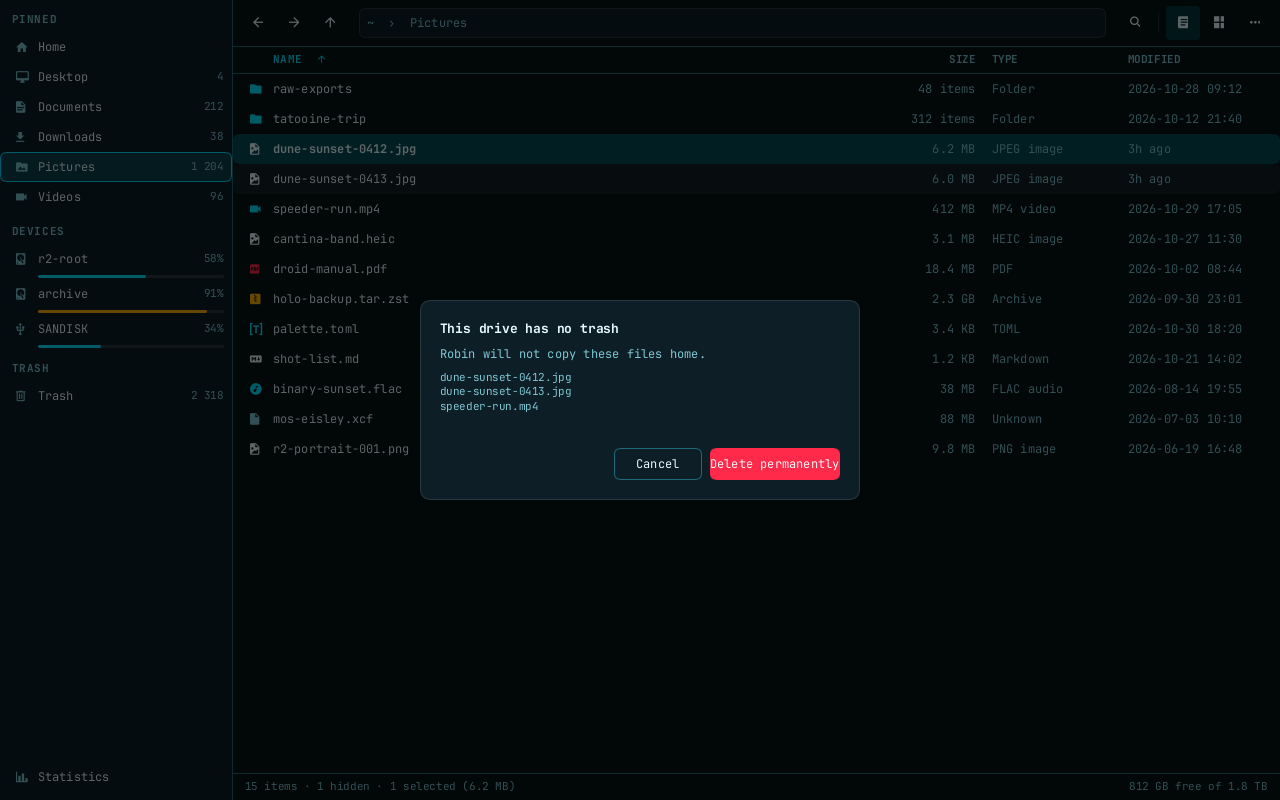
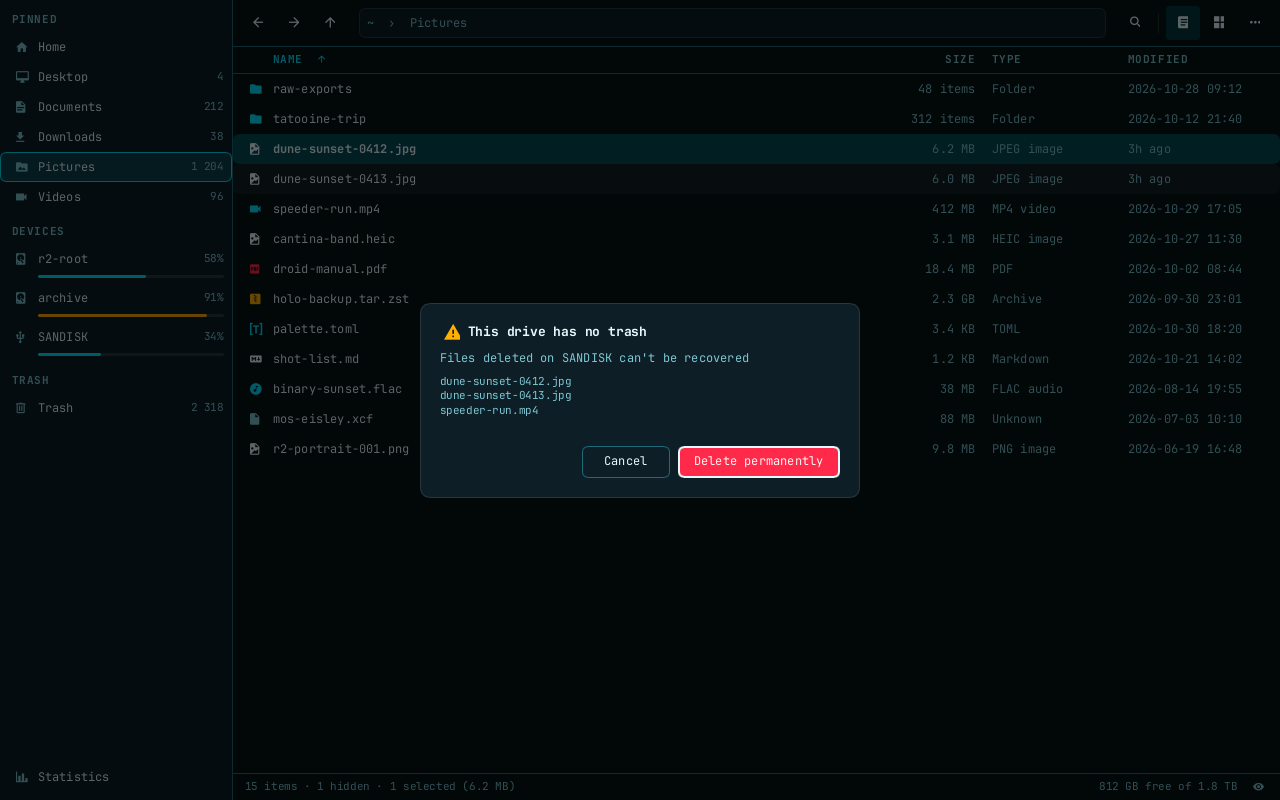
fix(ui): say deleted files on a drive can't be recovered (#43)

diff --git a/src/app.rs b/src/app.rs
@@ -6270,11 +6270,11 @@ fn make_folder_async(ui: &AppWindow, st: &Shared, dir: PathBuf) {
     );
 }
 
-/// The no-trash confirm's note. On a phone or camera it names the device
-/// and says what deleting there means; a drive keeps #41's note.
+/// The no-trash confirm's note. It names the volume and says deleted
+/// files can't be recovered.
 pub fn trash_no_note(ctl: &Controller) -> String {
     match crate::devices::device_of(&ctl.devices, &ctl.dir) {
-        Some(d) if d.media() => format!("Files deleted on {} can't be recovered", d.name()),
+        Some(d) => format!("Files deleted on {} can't be recovered", d.name()),
         _ if crate::devices::gvfs_media_root(&ctl.dir).is_some() => {
             "Files deleted on this phone can't be recovered".into()
         }
@@ -6282,8 +6282,8 @@ pub fn trash_no_note(ctl: &Controller) -> String {
     }
 }
 
-/// The no-trash confirm's note on a drive.
-pub const TRASH_NO_NOTE: &str = "Robin will not copy these files home.";
+/// The no-trash confirm's note when the volume isn't in the device list.
+pub const TRASH_NO_NOTE: &str = "Files deleted on this drive can't be recovered";
 
 /// The no-trash confirm's title: a phone's, a camera's, or a drive's.
 pub fn trash_no_title(ctl: &Controller) -> &'static str {
@@ -10197,6 +10197,30 @@ mod tests {
         go(&mut c, pics);
         assert_eq!(trash_no_title(&c), "This drive has no trash");
         assert_eq!(trash_no_note(&c), TRASH_NO_NOTE);
+        let _ = fs::remove_dir_all(c.env.home.unwrap());
+    }
+
+    #[test]
+    fn deleting_on_a_drive_says_files_cant_be_recovered() {
+        let mut c = setup("drive-trash");
+        let root = c.env.home.clone().unwrap();
+        let fake = crate::devices::FakeDevices::new();
+        fake.plug(crate::devices::FakeDrive::stick(
+            "sdb1",
+            "SANDISK",
+            29_800_000_000,
+            &root.join("SANDISK"),
+        ));
+        let at = crate::devices::DeviceBackend::mount(fake.as_ref(), "sdb1").unwrap();
+        fs::write(at.join("a.jpg"), b"a").unwrap();
+        c.devices = crate::devices::DeviceBackend::drives(fake.as_ref()).unwrap();
+        go(&mut c, at);
+        c.listing.select_only("a.jpg".into());
+        assert_eq!(trash_no_title(&c), "This drive has no trash");
+        assert_eq!(
+            trash_no_note(&c),
+            "Files deleted on SANDISK can't be recovered"
+        );
         let _ = fs::remove_dir_all(c.env.home.unwrap());
     }
 

diff --git a/src/shots.rs b/src/shots.rs
@@ -1407,6 +1407,9 @@ fn fileops_scene(ui: &AppWindow, view: &str) {
         "phone-safe-unplug" => {
             device_toast(ui, "", "Pixel 8 can be unplugged", "", "");
         }
+        "confirm-trash-no-trash" => {
+            ui.set_trash_no_note("Files deleted on SANDISK can't be recovered".into());
+        }
         "phone-no-trash" => {
             ui.set_trash_no_title("This phone has no trash".into());
             ui.set_trash_no_note("Files deleted on Pixel 8 can't be recovered".into());

diff --git a/docs/DESIGN.md b/docs/DESIGN.md
@@ -109,7 +109,7 @@ Glyph sizes: 14 in rows and the sidebar (FolderSidebar glyph 14 in an 18px box) 
       - **Plugged in:** the row is `muted`, as for an unmounted drive. Arrival shows an info toast "Pixel 8 connected" with [Open], with no size because gvfs gives none. One click mounts the phone through gvfs (`gio mount`) and opens its top folder, which lists its storages ("Internal shared storage", "SD card").
       - **Waiting for access:** a locked phone, or one where "Allow" hasn't been tapped, either fails to open or opens empty. Either way the pane shows `` "Pixel 8" / "Unlock your phone and allow file access" [Retry], and the row stays `muted`. [Retry] opens the phone again. If it is still locked, an info toast says "Pixel 8 still hasn't allowed file access" and the pane keeps waiting. Once access is allowed, the storages list.
       - **Camera waiting:** a camera that is off, asleep or not in PTP mode fails gvfs-gphoto2's setup ("Error initializing camera") or opens empty. The pane uses the same layout: `` "Canon EOS R6" / "Turn on Canon EOS R6 and set its USB mode to PTP" [Retry]. A retry that still can't open it gives an info toast, "Canon EOS R6 still isn't ready".
-      - **What a phone can't do:** each refusal comes up front with its reason, as a `warning` toast, and nothing is attempted. At the phone's top folder, a paste or drop gives "Files can only go inside a storage on Pixel 8", and Del on a storage gives "Pixel 8's storages can't be deleted". An empty folder the phone takes nothing in shows `` "Nothing can be added here" / the reason, with no drop hint and no [New folder]. A phone has no trash, so Del asks with "This phone has no trash" ("This camera has no trash" on a camera), the note "Files deleted on Pixel 8 can't be recovered" and the file list, in the drive dialog's layout, and offers only [Delete permanently]. A drive's no-trash note is unchanged.
+      - **What a phone can't do:** each refusal comes up front with its reason, as a `warning` toast, and nothing is attempted. At the phone's top folder, a paste or drop gives "Files can only go inside a storage on Pixel 8", and Del on a storage gives "Pixel 8's storages can't be deleted". An empty folder the phone takes nothing in shows `` "Nothing can be added here" / the reason, with no drop hint and no [New folder]. A phone has no trash, so Del asks with "This phone has no trash" ("This camera has no trash" on a camera), the note "Files deleted on Pixel 8 can't be recovered" and the file list, in the drive dialog's layout, and offers only [Delete permanently]. A drive uses the same note, "Files deleted on SANDISK can't be recovered".
       - **New folder** on a phone or camera, or on any gvfs path, is made on a worker: the name probe and the `mkdir` are both round trips over USB. The window stays responsive. The reread then lists the new folder selected. A failure is a `danger` toast, "Couldn't create a folder in DCIM: <reason>".
       - **Slow listings:** folders on a phone are listed off the UI thread, as everywhere, but they are never counted, never thumbnailed and never probed for free space. Their folder sizes stay blank, never "0".
       - **Copies onto a phone** go through the op queue with progress, as any copy does. A new file is written straight to its final name, and is removed again if the copy fails or is cancelled. A Replace never puts the original at risk:
@@ -223,7 +223,7 @@ All empty and error states are centred in the content area: glyph 64 `muted@60%`
 - The new row enters with the slide-in, from a 24px offset over 180ms.
 
 ### Delete
-- `Del` → **neutral** dialog: "Move 3 items to trash?" with a list of up to 5 names in `t-small` and "+12 more". Buttons are [Cancel] [Move to Trash] (primary accent). A "Don't ask again" checkbox is included and is on by default after the first use. On a mount without a usable `.Trash-$uid`, the dialog title becomes "This drive has no trash" with a `warning` glyph and offers [Delete permanently] in danger style. Robin never silently copies to home.
+- `Del` → **neutral** dialog: "Move 3 items to trash?" with a list of up to 5 names in `t-small` and "+12 more". Buttons are [Cancel] [Move to Trash] (primary accent). A "Don't ask again" checkbox is included and is on by default after the first use. On a mount without a usable `.Trash-$uid`, the dialog title becomes "This drive has no trash" with a `warning` glyph, the note "Files deleted on SANDISK can't be recovered" and the file list, and offers only [Delete permanently] in danger style. Robin never silently copies to home.
 - `Shift+Del` → **danger** dialog: a 3px `danger` top bar inside the radius, a `` glyph 20 in `danger`, the title "Permanently delete 3 items?", the body "This can't be undone." Buttons are [Cancel] (default focus) [Delete permanently] (danger). The danger button is disabled for 600ms after the dialog opens.
 
 ### Progress strip
